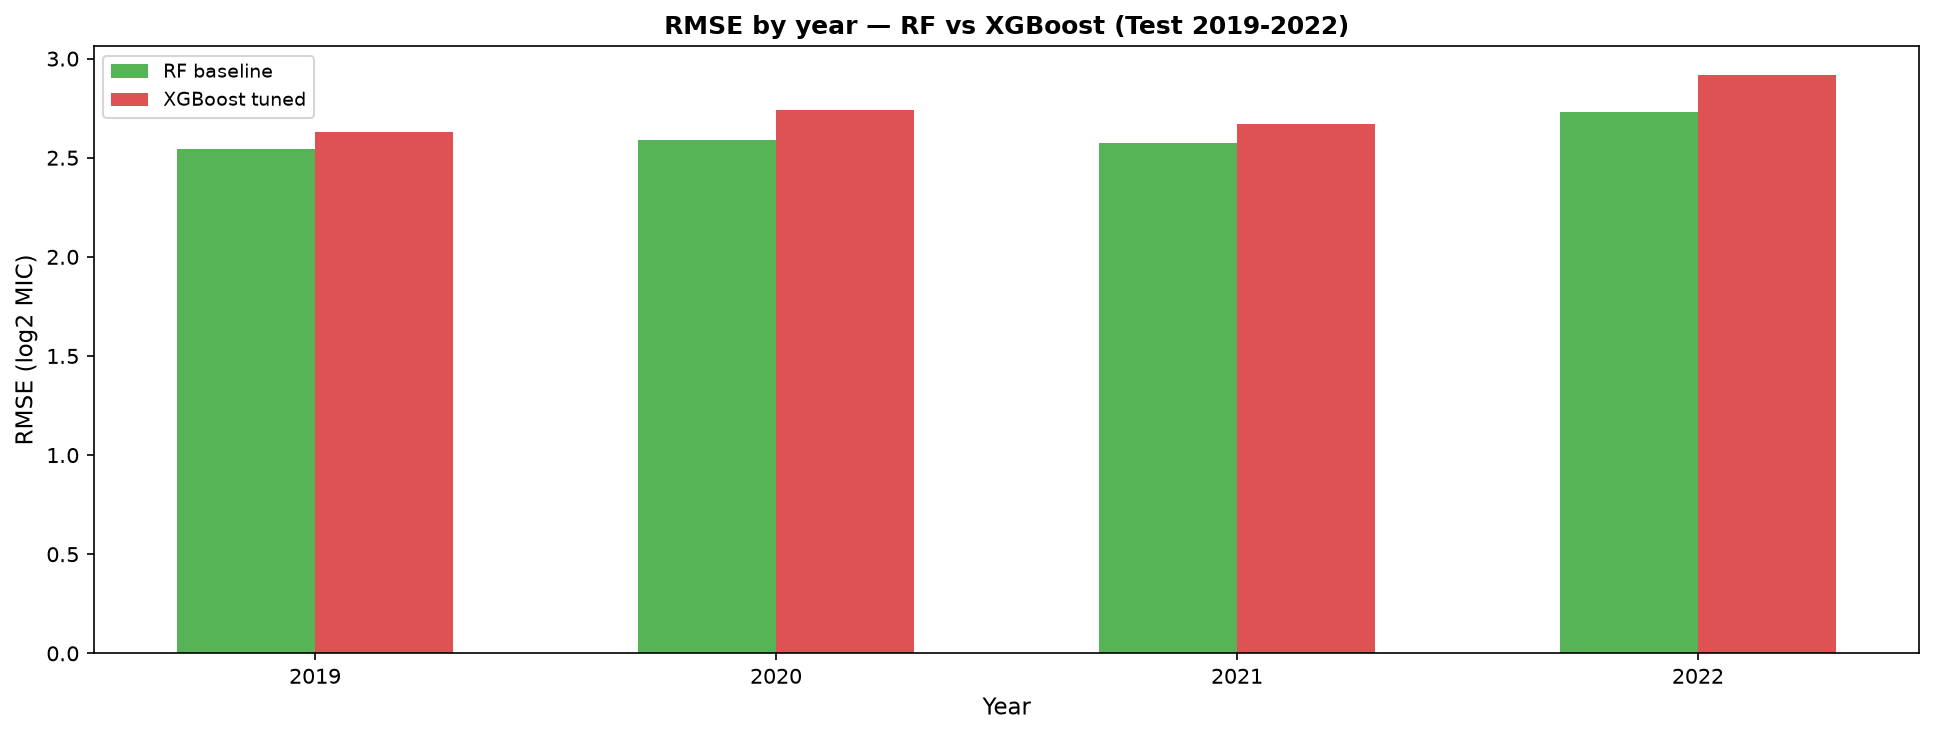
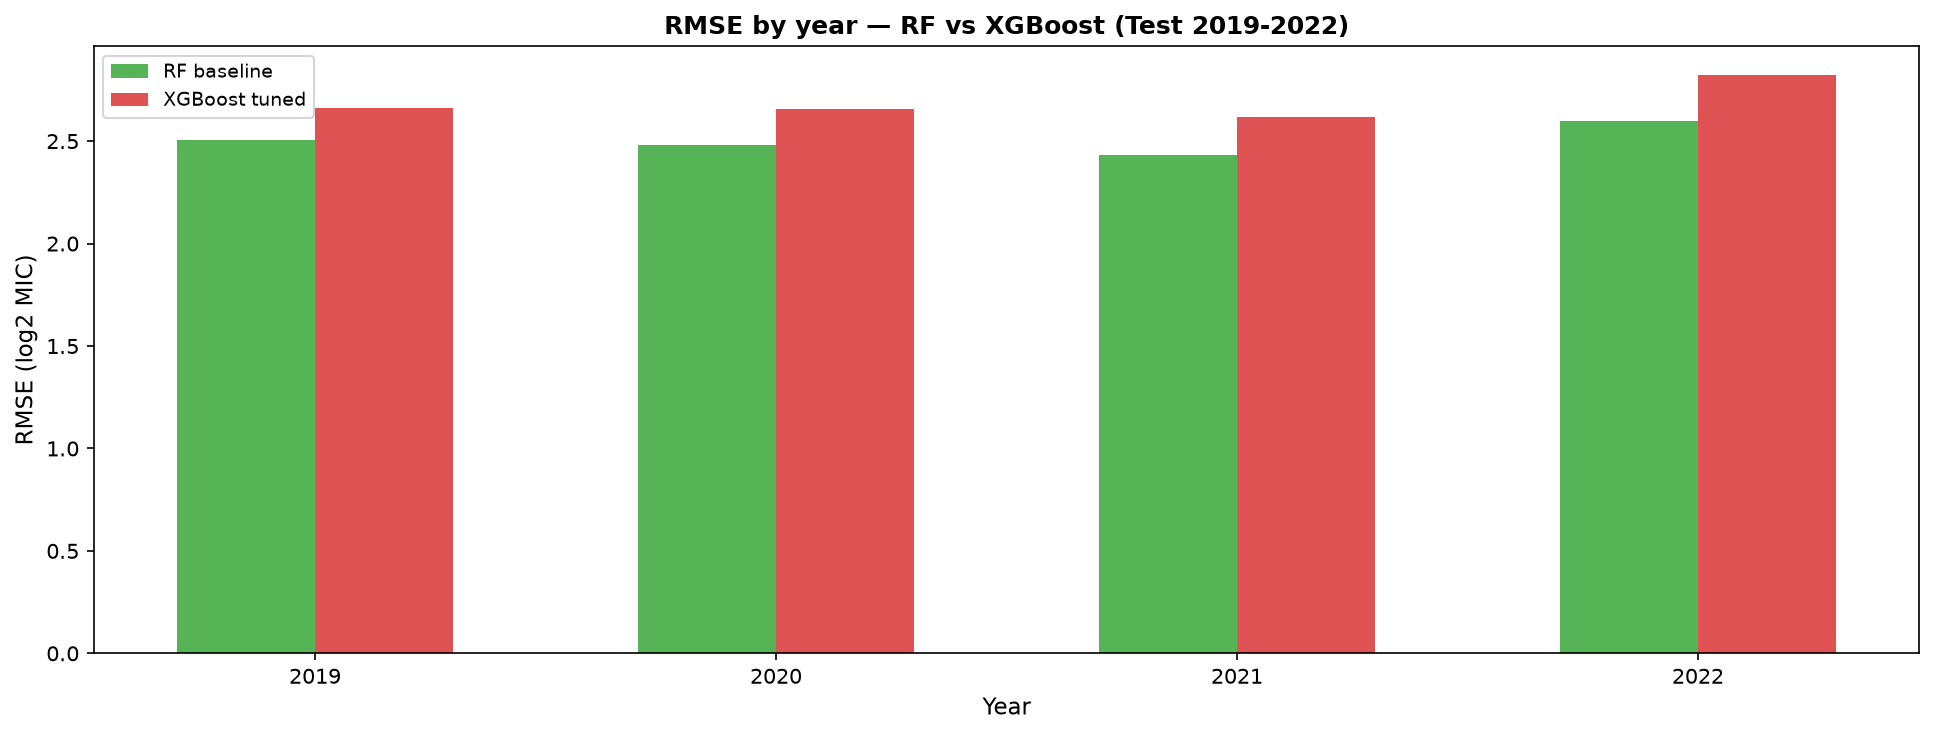
Add HANDOFF.md and update model report charts
HANDOFF.md contains everything needed to continue the project on a new
machine: infrastructure overview, data setup, pipeline run commands,
current model results for both species, key architectural decisions,
deployment instructions, and remaining tasks for challenge submission.

Report PNGs updated from latest model training run (lag + gene x year
features, 2026-07-02).

diff --git a/HANDOFF.md b/HANDOFF.md
@@ -1,0 +1,224 @@
+# Project Handoff - MIC Creep Predict
+**Vivli AMR Data Challenge 2026**
+Last updated: 2026-07-02
+
+---
+
+## What this project does
+
+Predicts MIC Creep - the gradual year-over-year drift in Minimum Inhibitory Concentration (MIC) values - using machine learning on global AMR surveillance data.
+
+Two pathogens, both vs. Meropenem (last-resort carbapenem):
+
+| Pathogen | Problem type | Primary metric |
+|---|---|---|
+| K. pneumoniae | Creep (continuous upward drift) | MIC90 RMSE, log2 slope/year |
+| A. baumannii | Switch (bimodal, prevalence-based) | P(R) logistic trend AUC + slope |
+
+---
+
+## Infrastructure at a glance
+
+| Component | Where | Notes |
+|---|---|---|
+| Code | github.com/AnnGur/mic-creep-predict (public) | main branch |
+| Model artifacts | huggingface.co/AnnGur/mic-creep-kpneumoniae | 6 PKL files + feature JSONs per species |
+| Backend API | Render.com (free tier) | FastAPI, auto-deploys from GitHub |
+| Frontend | Vercel (free tier) | Next.js, auto-deploys from GitHub on push |
+| Raw data | Local only - NEVER committed | Vivli AMR Register DUA |
+| Results DB | Not yet set up (Supabase planned) | currently API serves static JSONs |
+
+---
+
+## Setting up on a new machine
+
+### 1. Clone and Python env
+
+```bash
+git clone https://github.com/AnnGur/mic-creep-predict.git
+cd mic-creep-predict
+python3 -m venv .venv
+source .venv/bin/activate
+pip install -r requirements.txt
+```
+
+### 2. Raw data
+
+Data comes from the Vivli AMR Register (data use agreement required). Do NOT commit it.
+
+Expected directory layout (gitignored):
+
+```
+data/
+  raw/
+    ATLAS_Antibiotics.xlsx          # Pfizer/ATLAS - primary dataset
+    sentry_abaumannii.csv           # SENTRY - Acinetobacter only (not currently used)
+    SIDERO_WT.xlsx                  # Shionogi - K.pn supplement
+    Venatorx_VNRX5133.xlsx          # Venatorx - K.pn supplement
+  processed/
+    kpneumoniae/
+      X_train.parquet, X_test.parquet, y_train.parquet, y_test.parquet
+      keep_countries.json, lag_lookup.json
+    abaumannii/
+      (same structure)
+```
+
+### 3. Run the full pipeline
+
+```bash
+# Step 1 - feature engineering (creates processed parquets)
+python scripts/pipeline/2_run_feature_engineering.py
+python scripts/pipeline/2_run_feature_engineering.py --atlas-only   # for A.bau
+
+# Step 2 - train models (XGBoost + RF + quantile, 60 Optuna trials each)
+python scripts/pipeline/3_run_model_training.py --species kpneumoniae
+python scripts/pipeline/3_run_model_training.py --species abaumannii
+
+# Step 3 - export API JSON files
+python scripts/pipeline/4_run_export.py --species kpneumoniae
+python scripts/pipeline/4_run_export.py --species abaumannii
+
+# Step 4 (optional) - walk-forward CV
+python scripts/pipeline/5_run_walkforward_cv.py
+```
+
+### 4. Run the API locally
+
+```bash
+cd src/api
+uvicorn main:app --reload --port 8000
+# Test: curl http://localhost:8000/trend/kpneumoniae
+```
+
+### 5. Run the frontend locally
+
+```bash
+cd frontend
+npm install
+npm run dev
+# Open http://localhost:3000
+```
+
+---
+
+## Current model results (as of 2026-07-02)
+
+### K. pneumoniae + Meropenem
+- Training data: ATLAS + SIDERO-WT + Venatorx, 2008-2018 (64,429 rows, 90 features)
+- Test data: 2019-2022 (26,681 rows)
+
+| Model | RMSE (all) | R2 | RMSE (resistant) |
+|---|---|---|---|
+| RF baseline | 1.80 | 0.76 | 3.02 |
+| XGBoost tuned | 2.22 | 0.63 | 2.29 |
+| XGBoost Q0.90 | 4.18 | -0.30 | **1.20** |
+
+RMSE on resistant subset (MIC >= 8 mg/L) is the clinically relevant metric - XGBoost Q0.90 is best here.
+
+Top SHAP features: `lag1_pct_resistant_ctry`, `KPC_pos`, `OXA_pos`, `KPC_x_year`, `NDM_pos`
+
+### A. baumannii + Meropenem
+- Training data: ATLAS only (SIDERO/Venatorx removed - trial enrollment selection bias), 2008-2018 (20,828 rows, 83 features)
+- Test data: 2019-2022
+
+| Model | RMSE (all) | R2 | RMSE (resistant) |
+|---|---|---|---|
+| RF baseline | 2.50 | 0.33 | 1.65 |
+| XGBoost tuned | 2.69 | 0.23 | 1.03 |
+| XGBoost Q0.90 | 3.67 | -0.44 | **0.26** |
+
+**Primary metric is the P(R) prevalence classifier**, not RMSE:
+- AUC-ROC: 0.981 (XGBoost binary classifier per isolate)
+- Logistic trend on logit scale: slope = +0.098 logit/yr, R2 = 0.659, p = 0.0024
+- Observed: 44% resistant in 2019 -> 70% in 2022
+- Forecast: ~77% by 2026
+
+A. baumannii MIC90 is at the ATLAS panel ceiling (32 mg/L) throughout all years - resistance was established before 2008. The MIC90 regression is secondary; prevalence is the story.
+
+---
+
+## Key architectural decisions
+
+**Train/test split**: 2008-2018 train, 2019-2022 test. NEVER shuffled (time-aware).
+
+**Censored MIC values**: `">32"` -> 64 mg/L (next doubling dilution); `"<=0.25"` -> 0.125 mg/L (half boundary). All log2-transformed.
+
+**Lag feature** (`lag1_pct_resistant_ctry`): previous-year resistance rate in the isolate's country. Computed from full dataset using O(1) dict lookup. Fallback chain: country+prev_year -> global prev_year -> global mean. Saved as `lag_lookup.json` for API inference.
+
+**Gene x year interactions**: KPC, NDM, OXA, VIM, IMP, GES each get a `{gene}_x_year` column = gene_pos * year. NDM/OXA emerged post-2017; KPC plateaued. Top SHAP features.
+
+**Hybrid MIC90**: Global P(R) > 10% -> ceiling 32 mg/L; below 10% -> country-stratified weighted average. Applied post-prediction.
+
+**A. baumannii supplementary datasets removed**: SIDERO-WT and Venatorx were excluded for A.bau because those trials enrolled patients specifically with resistant infections (selection bias). ATLAS-only for A.bau.
+
+**Walk-forward CV**: 6 folds, test years 2014-2019, fixed Optuna hyperparams from held-out validation.
+
+---
+
+## Files that live only on HF Hub (not in git)
+
+Model PKL files are gitignored (`models/*.pkl`). They are stored at:
+`huggingface.co/AnnGur/mic-creep-kpneumoniae`
+
+To upload after retraining:
+```bash
+python scripts/utils/upload_to_huggingface.py
+```
+
+The API (Render) downloads them at startup. If you retrain, re-upload to HF Hub and redeploy Render (or it auto-pulls on restart).
+
+---
+
+## Deployment
+
+### API (Render)
+
+- Auto-deploys when `src/api/main.py` changes on main
+- Loads models from HF Hub at startup
+- Loads `reports/api/api_{species}_*.json` at startup (these ARE committed to git)
+- If you change the JSON outputs, commit them and Render will pick them up
+
+### Frontend (Vercel)
+
+- Auto-deploys when anything in `frontend/` changes on main
+- ISR cache: 5 minutes (`revalidate: 300` in page.tsx)
+- Species switcher: `?species=kpneumoniae` or `?species=abaumannii`
+
+### After retraining locally
+
+```bash
+# 1. Export updated API JSONs
+python scripts/pipeline/4_run_export.py --species kpneumoniae
+python scripts/pipeline/4_run_export.py --species abaumannii
+
+# 2. Copy lag lookups to reports/api/
+cp data/processed/kpneumoniae/lag_lookup.json reports/api/api_kpneumoniae_lag_lookup.json
+cp data/processed/abaumannii/lag_lookup.json  reports/api/api_abaumannii_lag_lookup.json
+
+# 3. Upload models to HF Hub
+python scripts/utils/upload_to_huggingface.py
+
+# 4. Commit and push (triggers Render + Vercel redeploy)
+git add reports/api/
+git commit -m "Update API outputs after retrain"
+git push origin main
+```
+
+---
+
+## What still needs to be done (challenge submission)
+
+- [ ] Methodology page: update feature counts (now 90 K.pn / 83 A.bau, was 83/76)
+- [ ] Final write-up / submission document
+- [ ] SHAP validation with domain expert (biological plausibility check)
+- [ ] Supabase setup for aggregated results (optional for MVP)
+- [ ] Exclusion of Merck/SMART datasets confirmed in submission notes
+
+---
+
+## Contacts and accounts
+
+- GitHub: github.com/AnnGur
+- HF Hub: huggingface.co/AnnGur
+- Email: gurina.ann@gmail.com
+- Vivli data access: requires DUA login at vivli.org
